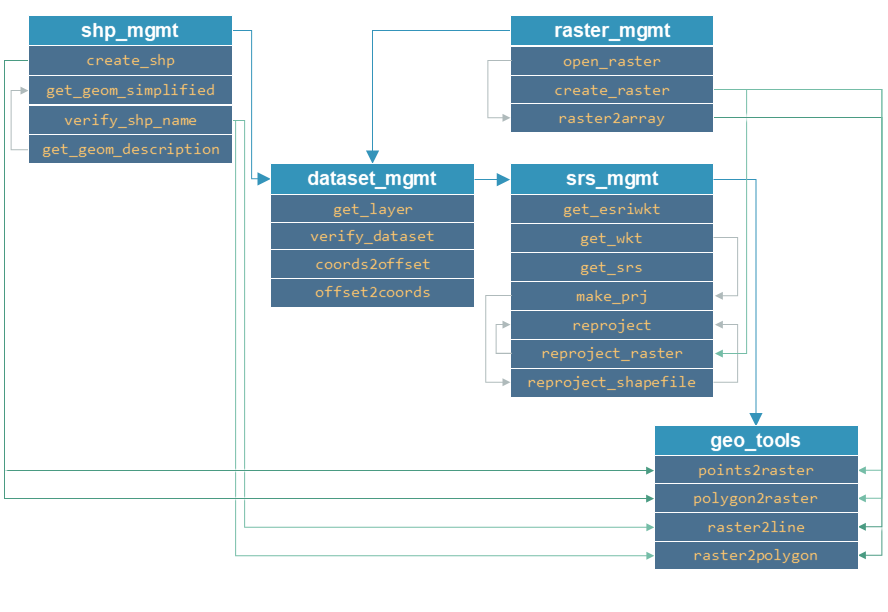
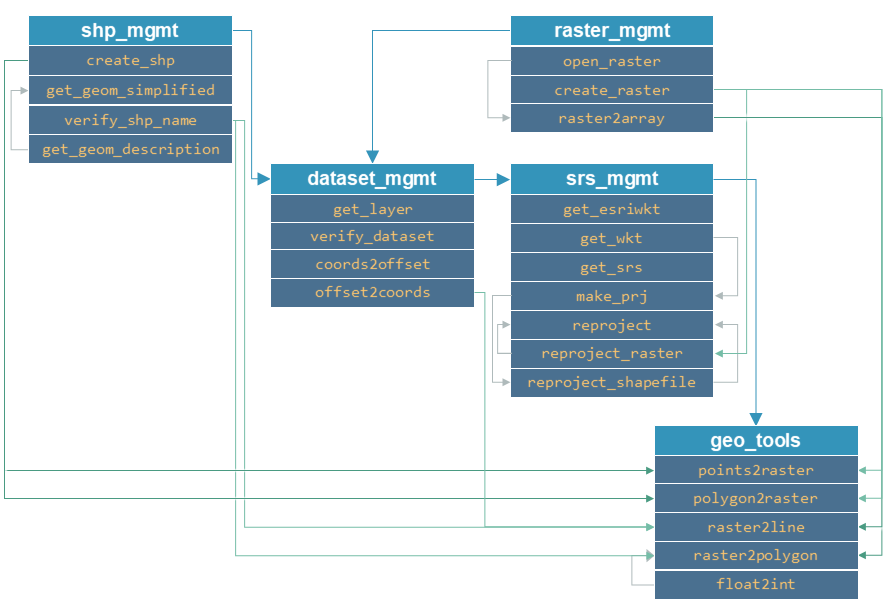
corrected raster2polygon

Changed region(s): [[0.6993, 0.9314, 0.973, 0.9935], [0.5473, 0.5278, 0.5777, 0.5899]]

diff --git a/geo_utils/geo_tools.py b/geo_utils/geo_tools.py
@@ -3,6 +3,33 @@ import itertools
 gdal.UseExceptions()
 
 
+def float2int(raster_file_name, band_number=1):
+    """
+    :param raster_file_name: STR of target file name, including directory; must end on ".tif"
+    :param band_number: INT of the raster band number to open (default: 1)
+    :output: new_raster_file_name (STR)
+    """
+    raster, array, geo_transform = raster2array(raster_file_name, band_number=band_number)
+    try:
+        array = array.astype(int)
+    except ValueError:
+        print("ERROR: Invalid raster pixel values.")
+        return raster_file_name
+    new_name = raster_file_name.split(".tif")[0] + "_int.tif"
+
+    # get source coordinate system and exit function if not possible
+    src_srs = get_srs(raster)
+    if not src_srs:
+        # ensure consistency
+        return raster_file_name
+
+    # create integer raster
+    print("Info: Creating integer raster: \n>> %s" % new_name)
+    create_raster(new_name, array, epsg=int(src_srs.GetAuthorityCode(None)),
+                  rdtype=gdal.GDT_Int32, geo_info=geo_transform)
+    return new_name
+
+
 def raster2line(raster_file_name, out_shp_fn, pixel_value):
     """
     Convert a raster to a line shapefile, where pixel_value determines line start and end points
@@ -61,43 +88,32 @@ def raster2line(raster_file_name, out_shp_fn, pixel_value):
     print("Success: Wrote %s" % str(out_shp_fn))
 
 
-def raster2polygon(file_name, band_number=1, out_shp_fn="", layer_name="basemap"):
+def raster2polygon(file_name, out_shp_fn, band_number=1, field_name="values"):
     """
     Convert a raster to polygon
     :param file_name: STR of target file name, including directory; must end on ".tif"
-    :param band_number: INT of the raster band number to open (default: 1)
     :param out_shp_fn: STR of a shapefile name (with directory e.g., "C:/temp/poly.shp")
-    :param layer_name: STR of a layer name
+    :param band_number: INT of the raster band number to open (default: 1)
+    :param field_name: STR of the field where raster pixel values will be stored (default: "values")
     :return: None
     """
+    # ensure that the input raster contains integer values only and open the input raster
+    file_name = float2int(file_name)
     raster, raster_band = open_raster(file_name, band_number=band_number)
 
-    # verify output shapefile name
-    out_shp_fn = verify_shp_name(out_shp_fn)
+    # create new shapefile with the create_shp function
+    new_shp = create_shp(out_shp_fn, layer_name="raster_data", layer_type="polygon")
+    dst_layer = new_shp.GetLayer()
 
-    driver = ogr.GetDriverByName("ESRI Shapefile")
-    dst_ds = driver.CreateDataSource(out_shp_fn)
-    dst_layer = dst_ds.CreateLayer(layer_name, srs=None)
+    # create new field to define values
+    new_field = ogr.FieldDefn(field_name, ogr.OFTInteger)
+    dst_layer.CreateField(new_field)
 
-    gdal.Polygonize(raster_band, None, dst_layer, -1, [], callback=None)
+    # Polygonize(band, hMaskBand[optional]=None, destination lyr, field ID, papszOptions=[], callback=None)
+    gdal.Polygonize(raster_band, None, dst_layer, 0, [], callback=None)
+
+    # create projection file
+    srs = get_srs(raster)
+    make_prj(out_shp_fn, int(srs.GetAuthorityCode(None)))
     print("Success: Wrote %s" % str(out_shp_fn))
 
-
-def verify_dataset(dataset):
-    """
-    Verify if a dataset contains raster or vector data
-    :param dataset: osgeo.gdal.Dataset or osgeo.ogr.DataSource
-    :return: String (either "mixed", "raster", or "vector")
-    """
-    # Check the contents of an osgeo.gdal.Dataset
-    try:
-        if dataset.RasterCount > 0 and dataset.GetLayerCount() > 0:
-            return "mixed"
-        elif dataset.RasterCount > 0:
-            return "raster"
-        elif dataset.GetLayerCount() > 0:
-            return "vector"
-        else:
-            return "empty"
-    except AttributeError:
-        print("ERROR: %s is not an osgeo.gdal.Dataset object." % str(dataset))

diff --git a/README.md b/README.md
@@ -276,10 +276,22 @@ Output: String (either `"mixed"`, `"raster"`, or `"vector"`).
 Convert rasters to shapefiles and vice versa. 
 
 The methods provided with `geo_tools` are: 
+* `float2int` converts a float to an integer type raster dataset. 
 * `raster2line` converts a raster to a line vector dataset based on a user-specific value of pixels to connect. 
 * `raster2polygon` converts a raster to a polygon vector dataset.
 * `points2raster` converts a points or a point shapefile to raster dataset. 
 * `polygon2raster` converts a polygon shapefile to a raster dataset.  
+
+### Convert float to integer raster dataset
+Convert a floating point raster data to integers with `numpy.array.astype(int)`.<br>
+Usage: `int_raster_file_name = float2int(raster_file_name, band_number)`
+
+| Input arguments | Type | Description |
+|-----------------|------|-------------|
+|`raster_file_name` | String | Of a (relative) directory (ends on `".tif"`, e.g., `"C:/temp/a_grid.tif"`) of raster with pixel data types only.|
+|`band_number`| Integer | OPTIONAL to indicate the raster band number to open (default: 1).|
+
+Output: *String* of the integer raster file name (i.e., a raster with an `_int.tif` suffix is created in the same directory and with the same raster file name prefix as `raster_file_name`). For example: `"C:/rasters/flow_depth_int.tif`.
 
 ### Convert raster to line shapefile
 Convert a raster to a line shapefile based on a user-specific value of pixels (`pixel_value`) to connect.<br>
@@ -299,10 +311,10 @@ Usage: `raster2polygon(file_name, band_number=1, out_shp_fn="", layer_name="base
 
 | Input arguments | Type | Description |
 |-----------------|------|-------------|
-|`raster_file_name` | String | Of a (relative) directory (ends on `".tif"`, e.g., `"C:/temp/a_grid.tif"`) of raster with **INTEGER** pixel data types only.|
+|`raster_file_name` | String | Of a (relative) directory (ends on `".tif"`, e.g., `"C:/temp/a_grid.tif"`) of raster with **INTEGER** pixel data types only. If *Float* data is provided, the function automatically uses `float2int`.|
 |`band_number`| Integer | OPTIONAL to indicate the raster band number to open (default: 1).|
 |`out_shp_fn` | String | shapefile name (with directory e.g., `"C:/temp/poly.shp"`).|
-|`layer_name` | String | Name for shapefile layer (default=`"basemap"`).|
+|`field_name` | String | Name for the field where the values of the raster are stored (default=`"values"`).|
 
 Output: None (produces a polygon shapefile with `gdal.Polygonize`, with the name define in the `out_shp_fn` argument).
 
